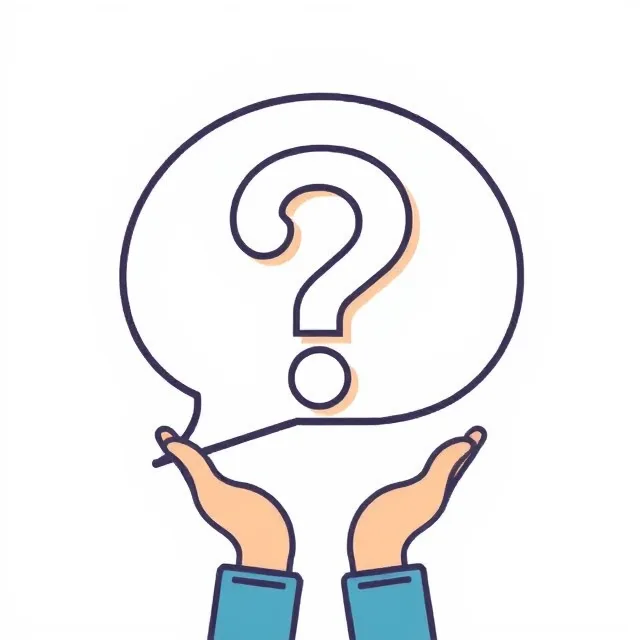
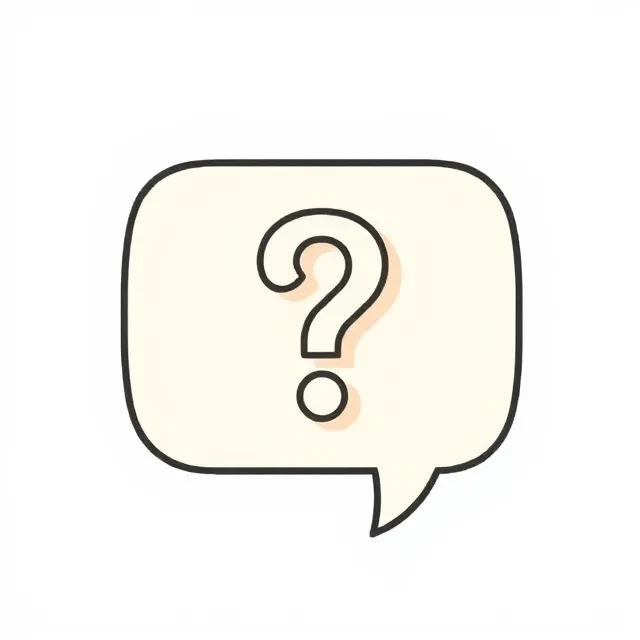
표지 설명 105개를 존댓말로 (사용자 지시) — 규칙은 tools/polite.py, 원본은 그대로 두고 조립할 때 바꾼다

Changed region(s): [[0.1875, 0.125, 0.8438, 1.0]]

diff --git a/index.html b/index.html
@@ -11,7 +11,7 @@
 <meta name="apple-mobile-web-app-title" content="짜오짜오">
 <meta name="mobile-web-app-capable" content="yes">
 <title>짜오짜오 — 베트남어</title>
-<link rel="stylesheet" href="style.css?v=41ef81c2">
+<link rel="stylesheet" href="style.css?v=63d8fc21">
 </head>
 <body>
 
@@ -149,7 +149,7 @@
   </section>
 </main>
 
-<script src="pitch.js?v=41ef81c2"></script>
-<script src="app.js?v=41ef81c2"></script>
+<script src="pitch.js?v=63d8fc21"></script>
+<script src="app.js?v=63d8fc21"></script>
 </body>
 </html>

diff --git a/sw.js b/sw.js
@@ -1,7 +1,7 @@
 /* 오프라인 캐시.
    앱 껍데기와 커리큘럼은 처음 열 때 통째로 받아두고,
    음성은 22MB나 되므로 한 번 재생한 것만 캐시에 남긴다 (데이터 요금 배려). */
-const V = 'vn-41ef81c2';
+const V = 'vn-63d8fc21';
 const SHELL = ['./', './index.html', './app.js', './pitch.js', './style.css',
                './manifest.json', './icon.png',
                './data/days.json', './data/audio_index.json'];

diff --git a/tools/polite.py b/tools/polite.py
@@ -1,0 +1,111 @@
+#!/usr/bin/env python3
+"""표지 설명을 존댓말로. 사용자 지시: 앱 글은 모두 존댓말.
+평서체 어미를 규칙으로 바꾸고, 규칙이 못 잡는 것은 EXTRA 에 손으로 적는다."""
+import re
+
+# 긴 것부터 (짧은 규칙이 먼저 먹으면 안 된다)
+RULES = [
+ ('것이 아니다','것이 아닙니다'),('것이 좋다','것이 좋습니다'),('것이다','것입니다'),
+ ('게 낫다','게 낫습니다'),('것 뿐이다','것뿐입니다'),('뿐이다','뿐입니다'),
+ ('면 된다','면 됩니다'),('하면 된다','하면 됩니다'),('된다','됩니다'),
+ ('안 된다','안 됩니다'),('한다','합니다'),('된다','됩니다'),
+ ('아니다','아닙니다'),('이다','입니다'),
+ ('있다','있습니다'),('없다','없습니다'),('많다','많습니다'),('적다','적습니다'),
+ ('쉽다','쉽습니다'),('어렵다','어렵습니다'),('좋다','좋습니다'),('나쁘다','나쁩니다'),
+ ('편하다','편합니다'),('같다','같습니다'),('다르다','다릅니다'),('낫다','낫습니다'),
+ ('맞다','맞습니다'),('틀리다','틀립니다'),('크다','큽니다'),('작다','작습니다'),
+ ('길다','깁니다'),('짧다','짧습니다'),('빠르다','빠릅니다'),('느리다','느립니다'),
+ ('흔하다','흔합니다'),('족하다','족합니다'),('충분하다','충분합니다'),
+ ('필요하다','필요합니다'),('중요하다','중요합니다'),('안전하다','안전합니다'),
+ ('통한다','통합니다'),('바뀐다','바뀝니다'),('붙는다','붙습니다'),('나온다','나옵니다'),
+ ('들어간다','들어갑니다'),('나간다','나갑니다'),('간다','갑니다'),('온다','옵니다'),
+ ('쓴다','씁니다'),('본다','봅니다'),('든다','듭니다'),('넣는다','넣습니다'),
+ ('말한다','말합니다'),('부른다','부릅니다'),('묻는다','묻습니다'),('센다','셉니다'),
+ ('읽는다','읽습니다'),('적는다','적습니다'),('끝난다','끝납니다'),('시작한다','시작합니다'),
+ ('배운다','배웁니다'),('외운다','외웁니다'),('익힌다','익힙니다'),('만든다','만듭니다'),
+ ('생긴다','생깁니다'),('걸린다','걸립니다'),('풀린다','풀립니다'),('열린다','열립니다'),
+ ('닫힌다','닫힙니다'),('앉는다','앉습니다'),('선다','섭니다'),('잡는다','잡습니다'),
+ ('찾는다','찾습니다'),('고른다','고릅니다'),('바꾼다','바꿉니다'),('더한다','더합니다'),
+ ('뺀다','뺍니다'),('센다','셉니다'),('받는다','받습니다'),('준다','줍니다'),
+ ('먹는다','먹습니다'),('마신다','마십니다'),('산다','삽니다'),('판다','팝니다'),
+ ('탄다','탑니다'),('걷는다','걷습니다'),('달린다','달립니다'),('쉰다','쉽니다'),
+ ('잔다','잡니다'),('일어난다','일어납니다'),('돈다','돕니다'),('멈춘다','멈춥니다'),
+ ('보낸다','보냅니다'),('부친다','부칩니다'),('싣는다','싣습니다'),('내린다','내립니다'),
+ ('올린다','올립니다'),('붙인다','붙입니다'),('뗀다','뗍니다'),('묶는다','묶습니다'),
+ ('푼다','풉니다'),('쌓는다','쌓습니다'),('나눈다','나눕니다'),('모은다','모읍니다'),
+ ('남는다','남습니다'),('빠진다','빠집니다'),('채운다','채웁니다'),('비운다','비웁니다'),
+ ('쓰인다','쓰입니다'),('불린다','불립니다'),('보인다','보입니다'),('들린다','들립니다'),
+ ('알린다','알립니다'),('가린다','가립니다'),('지운다','지웁니다'),('고친다','고칩니다'),
+ ('배는다','뱁니다'),('한 말이다','한 말입니다'),('말이다','말입니다'),
+ ('소리다','소리입니다'),('뜻이다','뜻입니다'),('차례다','차례입니다'),('자리다','자리입니다'),
+ ('관문이다','관문입니다'),('부분이다','부분입니다'),('것들이다','것들입니다'),
+ ('셈이다','셈입니다'),('식이다','식입니다'),('때다','때입니다'),
+ ('진다','집니다'),
+ # 시킴꼴도 존댓말로
+ ('해라','하세요'),('지켜라','지키세요'),('보아라','보세요'),('봐라','보세요'),
+ ('써라','쓰세요'),('가라','가세요'),('와라','오세요'),('들어라','들으세요'),
+ ('마라','마세요'),('말아라','마세요'),('난다','납니다'),('산다','삽니다'),
+]
+# 이름씨 + 다 (동사가 아니라 '~이다'가 줄어든 것). 규칙으로는 못 가른다.
+NOUN = ['반대','장치','인사','표시','단위','전부','차례','자리','관문','부분','셈','식',
+        '뜻','소리','말','때','것','지름길','시작','끝','기본','전부','절반','하나','둘',
+        '이름','뜻밖','핵심','열쇠','바탕','밑천','습관','버릇','예외','규칙','원칙']
+EXTRA = {}   # 규칙이 어색하게 바꾼 것만 통째로 적는다
+
+L0, V0, T0 = 0xAC00, 588, 28
+def _jamo(ch):
+    if not ('가' <= ch <= '힣'): return None
+    i = ord(ch) - L0
+    return i // V0, (i % V0) // T0, i % T0
+def _mk(a, b, c): return chr(L0 + a * V0 + b * T0 + c)
+
+def _ending(w):
+    """평서체 어미 하나를 존댓말로. 못 바꾸면 None."""
+    for a, b in RULES:
+        if w.endswith(a) and len(w) > len(a) - 1: return w[:-len(a)] + b
+    if w in ('있다','없다'): return w[:-1] + '습니다'
+    for n in NOUN:
+        if w == n + '다' or w.endswith(n + '다'): return w[:-1] + '입니다'
+    if len(w) >= 2 and w.endswith('다'):
+        prev = w[-2]
+        j = _jamo(prev)
+        if w.endswith(('았다','었다','였다','했다')): return w[:-1] + '습니다'
+        if w.endswith('는다'): return w[:-2] + '습니다'
+        if w.endswith('하다'): return w[:-2] + '합니다'
+        if j and j[2] == 4:                     # 받침 ㄴ → 온다·간다·쓴다 → 옵니다
+            return w[:-2] + _mk(j[0], j[1], 17) + '니다'
+        if j and j[2] != 0:                     # 앞 글자에 받침 → 봤다·배웠다·빨갛다·않다
+            return w[:-1] + '습니다'
+        # 받침이 없으면 대개 '이름씨 + 다'(한자어다·예의다) — 다만 아래 낱말은 뜻씨다
+        if not any(w.endswith(v) for v in
+                   ('크다','나쁘다','바쁘다','아프다','고르다','다르다','빠르다','흐르다',
+                    '모으다','쓰다','자다','사다','보다','오다','가다','주다','두다',
+                    '지다','치다','피다','서다','타다','나다','건네다','만나다')):
+            return w[:-1] + '입니다'
+        return None
+    return None
+
+def polite(t):
+    if not t: return t
+    if t in EXTRA: return EXTRA[t]
+    out = t
+    # 문장 끝(마침표·물음표·느낌표·줄끝) 바로 앞의 어미만 바꾼다
+    def fix(m):
+        w, tail = m.group(1), m.group(2)
+        r = _ending(w)
+        return (r + tail) if r else m.group(0)
+    # 문장 끝은 마침표만이 아니다 — 줄표(—)·물결·줄끝 앞도 문장이 끝나는 자리다
+    out = re.sub(r'([가-힣]+)(\s*(?:[.!?]|—|–|~|<br>)|$)', fix, out)
+    return out
+
+if __name__ == '__main__':
+    import json, pathlib, sys
+    d = json.loads(pathlib.Path('data/days.json').read_text())
+    n = 0
+    for x in [*d.get('prep', []), *d['days']]:
+        t = x.get('intro')
+        if not t: continue
+        p = polite(t)
+        if p != t: n += 1
+        print(('  ' if p != t else '!!') + ' ' + p)
+    print(f'\n바뀐 것 {n}')

diff --git a/tools/assemble.py b/tools/assemble.py
@@ -10,6 +10,7 @@ def slug(vi):
     return s.replace('đ','d').replace('Đ','d').lower().replace(' ','-')
 sys.path.insert(0,'tools')
 from visuals import attach
+from polite import polite      # 앱 글은 모두 존댓말 (사용자 지시)
 R = pathlib.Path('.')
 p1 = json.loads((R/'data/_part1.json').read_text())
 days = []
@@ -78,6 +79,15 @@ try:
     REST = json.loads((R/'tools/imgrest.json').read_text())
 except Exception:
     REST = {}
+
+# 표지 설명·목표를 존댓말로. 원본(tools/b*.py)은 평서체로 두고 여기서 한 번에 바꾼다 —
+# 백 몇 줄을 손으로 고치면 다음에 문장을 더할 때 또 섞인다.
+for d in out["days"] + out["prep"]:
+    for k in ("intro", "goal", "how"):
+        if d.get(k): d[k] = polite(d[k])
+    for x in d.get("rules", []) or []:
+        for k in ("say", "note", "tip"):
+            if isinstance(x, dict) and x.get(k): x[k] = polite(x[k])
 
 for d in out["days"]:
     used = set()
